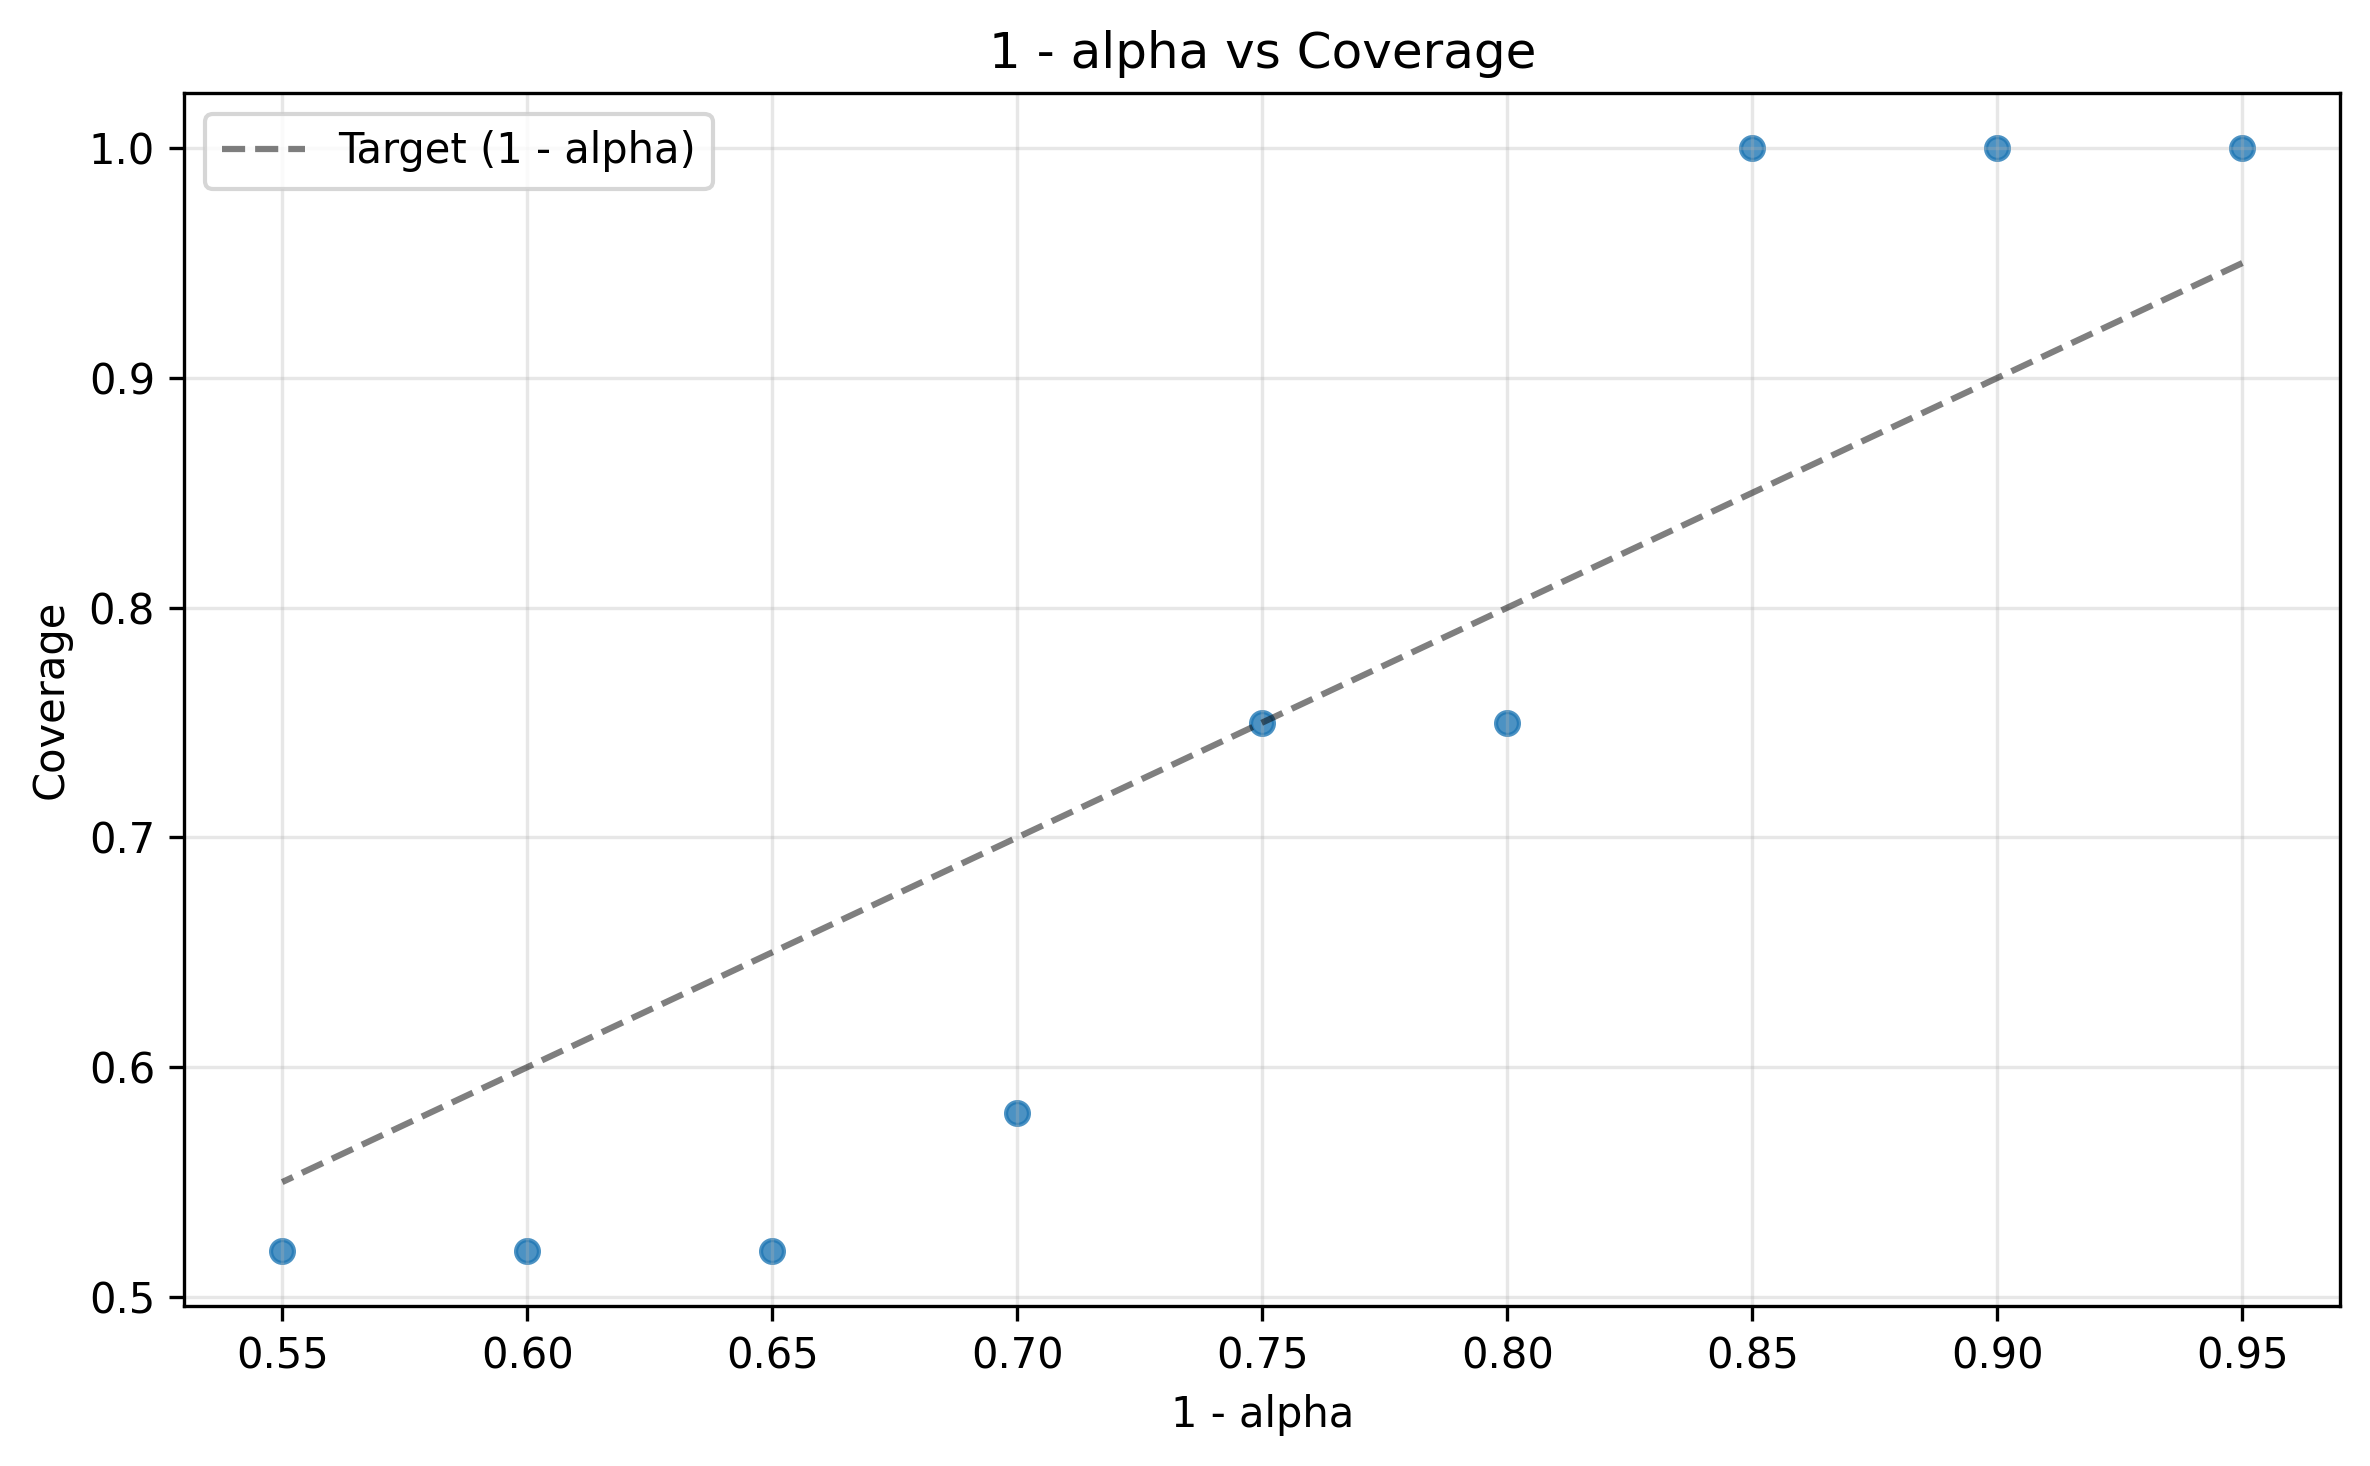
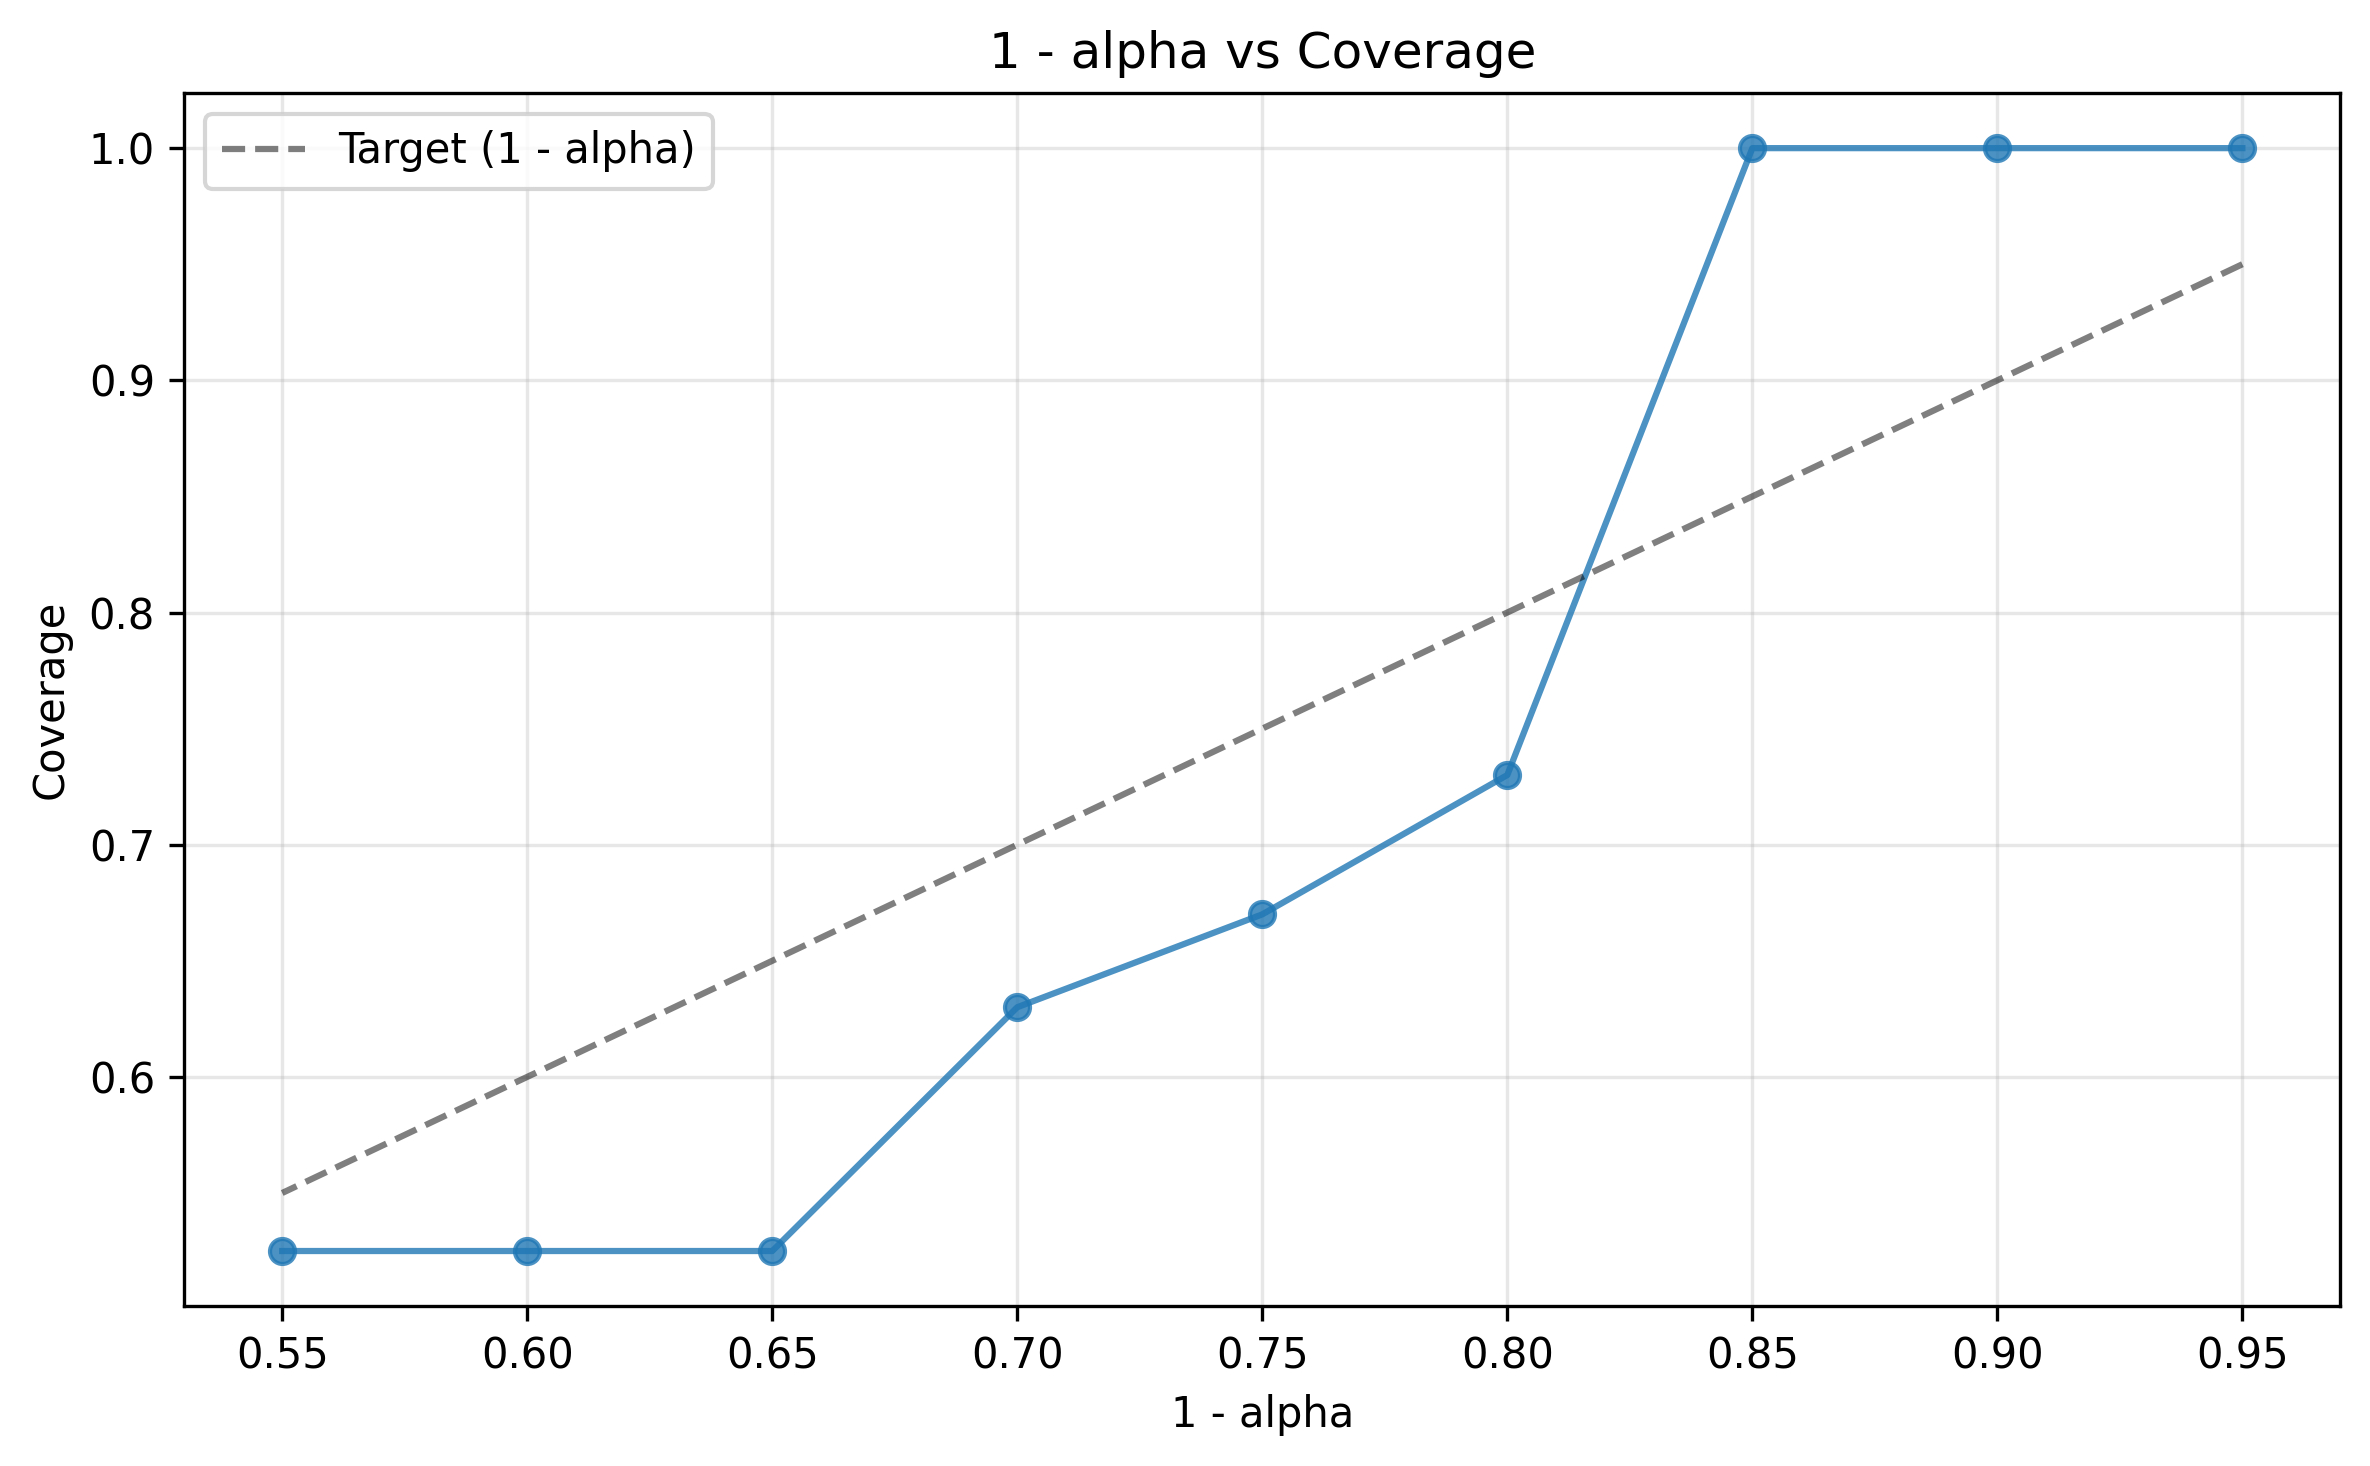
idk

diff --git a/cpq/graphsoffline.py b/cpq/graphsoffline.py
@@ -116,16 +116,16 @@ for alpha in alpha_trials:
     coverage.append(res[2])
     q_hat.append(res[3])
 plots = [
-    (setsize, "Set Size", "1 - alpha vs Set Size", "graphs/HighMin1malpha_EE_vs_setsize.png"),
-    (eefrac, "EE Fraction", "1 - alpha vs EE Fraction", "graphs/HighMin1malpha_EE_vs_eefrac.png"),
-    (coverage, "Coverage", "1 - alpha vs Coverage", "graphs/HighMin1malpha_EE_vs_coverage.png"),
+    (setsize, "Set Size", "1 - alpha vs Set Size", "graphs/HighMin1malpha_EE_vs_setsizeV1.png"),
+    (eefrac, "EE Fraction", "1 - alpha vs EE Fraction", "graphs/HighMin1malpha_EE_vs_eefracV1.png"),
+    (coverage, "Coverage", "1 - alpha vs Coverage", "graphs/HighMin1malpha_EE_vs_coverageV1.png"),
 ]
 print(q_hat)
 
 for y, ylabel, title, filename in plots:
     fig, ax = plt.subplots(figsize=(8, 5))
 
-    ax.scatter(one_minus_alpha, y, s=30, alpha=0.8)
+    ax.plot(one_minus_alpha, y, marker="o", linestyle="-",  alpha=0.8)
 
     # Target coverage line (y = x): coverage should sit at or above it
     if ylabel == "Coverage":
